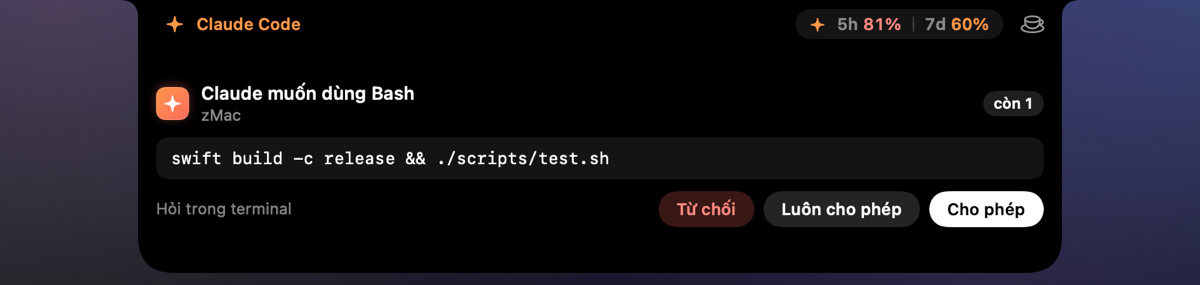
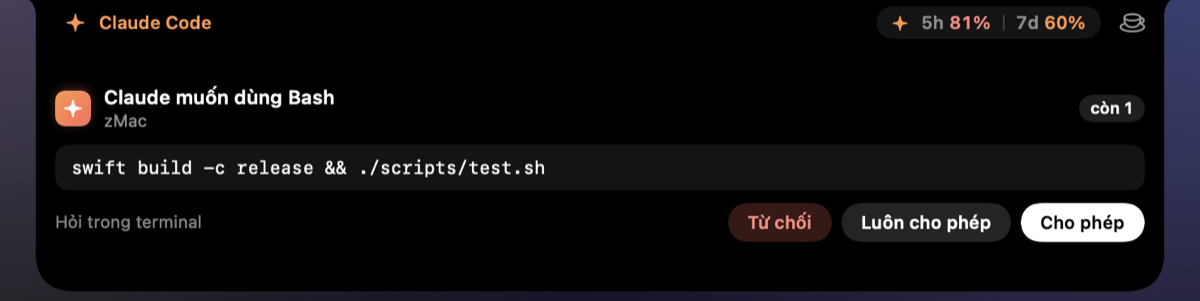
README: Homebrew, lịch, âm lượng, pin yếu, ảnh chụp mới

Changed region(s): [[0.0, 0.0, 0.9867, 0.9825]]

diff --git a/README.md b/README.md
@@ -13,7 +13,7 @@ Nhẹ, miễn phí, mã nguồn mở.
 ![macOS 14+](https://img.shields.io/badge/macOS-14%2B-282b59?logo=apple)
 ![Apple Silicon](https://img.shields.io/badge/Apple%20Silicon-arm64-282b59)
 ![Swift](https://img.shields.io/badge/Swift-5.10-F05138?logo=swift&logoColor=white)
-![Bộ nhớ 17 MB](https://img.shields.io/badge/b%E1%BB%99%20nh%E1%BB%9B-17%20MB-2DC480)
+![Bộ nhớ 24 MB](https://img.shields.io/badge/b%E1%BB%99%20nh%E1%BB%9B-24%20MB-2DC480)
 ![MIT](https://img.shields.io/badge/gi%E1%BA%A5y%20ph%C3%A9p-MIT-E171E0)
 
 <img src="docs/images/hero.jpg" width="880" alt="Notch đang phát nhạc, hạn mức Claude và HUD chuyển cửa sổ ⌥⇥ của zMac">
@@ -21,8 +21,8 @@ Nhẹ, miễn phí, mã nguồn mở.
 </div>
 
 > **English:** zMac is a lightweight macOS menu bar app that replaces AltTab, Rectangle, Maccy, BetterDisplay, AlDente,
-> FineTune and NotchNook with a single 17 MB process. It also approves Claude Code permission requests right from the
-> notch. Free and open source (MIT), with a Vietnamese and English interface.
+> FineTune and NotchNook with a single 24 MB process. Its notch also shows lyrics, your calendar, volume and brightness,
+> and approves Claude Code permission requests. Free and open source (MIT), with a Vietnamese and English interface.
 
 ## Có gì bên trong
 
@@ -34,8 +34,9 @@ Nhẹ, miễn phí, mã nguồn mở.
 | 🖥 | **Màn hình** | BetterDisplay | Độ sáng màn ngoài (DDC hoặc làm tối bằng phần mềm), độ phân giải, HiDPI |
 | 🔋 | **Pin** | AlDente | Giới hạn sạc, sailing, chống nóng, xả về ngưỡng, sạc đầy một lần |
 | 🔊 | **Âm thanh** | FineTune | Âm lượng và loa riêng từng app, đổi thiết bị vào ra |
-| 🎵 | **Notch** | NotchNook | Nhạc đang phát với ảnh bìa (mọi trình phát, kể cả trình duyệt), lời bài hát, kệ file, báo pin khi cắm sạc |
-| ✳ | **Claude Code** | Roost | Claude xin quyền thì notch mở ra để Cho phép / Từ chối; hạn mức 5 giờ / 7 ngày ngay trên notch |
+| 🎵 | **Notch** | NotchNook | Nhạc đang phát với ảnh bìa (mọi trình phát, kể cả trình duyệt), lời bài hát, kệ file; âm lượng và độ sáng thay HUD macOS; báo pin khi cắm sạc, cảnh báo pin yếu |
+| 📅 | **Lịch** | Itsycal | Tuần này ngay trong notch, chấm ngày có sự kiện, cuộc họp sắp tới kèm nút vào Meet / Zoom / Teams |
+| ✳ | **Claude Code** | Roost | Claude xin quyền thì notch mở ra để Cho phép / Từ chối; Claude hỏi lại hay xin duyệt kế hoạch thì chọn ngay trên notch; hạn mức 5 giờ / 7 ngày |
 | 🐾 | **Thú cưng** | | Mèo, cún, slime hay gà con pixel sống ở notch: cho ăn, vuốt ve, chơi để lên cấp |
 | ☕ | **Giữ máy thức** | Amphetamine | Không cho máy ngủ trong khoảng thời gian bạn chọn |
 
@@ -45,7 +46,10 @@ Tính năng nào không dùng thì tắt: module tắt không được tạo ra 
 
 <p align="center"><img src="docs/images/notch-collapsed.png" width="560" alt="Notch thu gọn: ảnh bìa và sóng nhạc bên trái, thú cưng bên phải"></p>
 
-Lúc thu gọn, notch hiện bài đang phát ở bên trái và thú cưng ở bên phải. Rê chuột (hoặc bấm) để mở:
+Lúc thu gọn, notch hiện bài đang phát ở bên trái và thú cưng ở bên phải. Rê chuột (hoặc bấm) để mở: bên trái là
+nhạc, kệ file hoặc thú cưng, bên phải là lịch tuần này.
+
+<p align="center"><img src="docs/images/notch-open.png" width="760" alt="Notch mở: trình phát bên trái, lịch tuần này bên phải"></p>
 
 <table>
 <tr>
@@ -56,8 +60,8 @@ Trả lời trong terminal cũng được, thẻ tự biến mất. Bấm Kết 
 </td>
 <td width="50%" valign="top">
 <img src="docs/images/notch-lyrics.png" alt="Lời bài hát chạy theo nhạc trên notch"><br>
-<b>Lời bài hát.</b> Lời có mốc thời gian chạy theo nhạc, dòng đang hát sáng lên. Lấy từ
-<a href="https://lrclib.net">lrclib.net</a>, chỉ khi bạn mở tab Lời.
+<b>Lời bài hát.</b> Bấm nút Lời trong trình phát, lời thay chỗ ảnh bìa và chạy theo nhạc, dòng đang hát sáng lên.
+Lấy từ <a href="https://lrclib.net">lrclib.net</a>, chỉ khi đang xem lời.
 </td>
 </tr>
 <tr>
@@ -72,17 +76,29 @@ Hoạt hình chạy bằng Core Animation nên không tốn CPU.
 Ghim những gì hay dùng; mật khẩu từ trình quản lý mật khẩu không bao giờ được lưu.
 </td>
 </tr>
+<tr>
+<td width="50%" valign="top">
+<img src="docs/images/notch-volume.png" alt="Âm lượng hiện trên hai cánh notch"><br>
+<b>Âm lượng, độ sáng.</b> Phím âm lượng và độ sáng hiện mức trên hai cánh notch thay cho HUD của macOS.
+Phím độ sáng chỉnh màn đang có con trỏ, kể cả màn ngoài và TV (làm tối bằng phần mềm).
+</td>
+<td width="50%" valign="top">
+<img src="docs/images/notch-lowbattery.png" alt="Thẻ cảnh báo pin yếu thả xuống từ notch"><br>
+<b>Pin yếu.</b> Còn 20%, 10% và 5% thì notch thả xuống một thẻ nhắc; cắm sạc là thẻ tự đóng.
+Mốc đầu tiên chọn được trong Cài đặt.
+</td>
+</tr>
 </table>
 
 <p align="center"><img src="docs/images/settings.jpg" width="760" alt="Cửa sổ Cài đặt của zMac"></p>
 
 ## Nhẹ đến đâu
 
-Đo trên MacBook Air M4, macOS 26.5, bật cả 10 tính năng:
+Đo trên MacBook Air M4, macOS 26.5, bật cả 11 tính năng:
 
 | | zMac |
 |---|---|
-| Bộ nhớ (phys footprint) | **17 MB** |
+| Bộ nhớ (phys footprint) | **24 MB** |
 | CPU khi rảnh, kể cả lúc notch đang chạy hoạt hình | **0%** |
 | Kích thước app | 3 MB (app, daemon pin, hook Claude, adapter đọc nhạc) |
 | Tiến trình đọc nhạc đang phát (chỉ khi bật Notch) | khoảng 6 MB, 0% CPU |
@@ -94,13 +110,22 @@ AltTab giữ sẵn ảnh chụp cửa sổ, Maccy giữ lịch sử của bạn.
 **Vì sao nhẹ** (chi tiết ở [docs/ARCHITECTURE.md](docs/ARCHITECTURE.md)):
 
 - Một tiến trình thay cho bảy, dùng chung runtime Swift, AppKit, SwiftUI.
-- Chạy theo sự kiện của hệ thống (IOKit, CoreAudio, NSWorkspace, kqueue), không timer lặp, không `CGEventTap`.
-  Phím tắt đăng ký với hệ thống nên phím bạn gõ không đi qua zMac.
+- Chạy theo sự kiện của hệ thống (IOKit, CoreAudio, NSWorkspace, EventKit, kqueue), không timer lặp.
+  Phím tắt đăng ký với hệ thống nên phím bạn gõ không đi qua zMac. Ngoại lệ duy nhất là một event tap chỉ nhận
+  phím âm lượng và độ sáng, để hiện chúng trên notch.
 - Module tắt thì không tồn tại; module không hợp máy tự ẩn (Mac không pin thì không có khoá sạc).
 - Hoạt hình trên notch giao cho Core Animation, WindowServer tự chạy, app không vẽ lại từng khung hình.
 - Cửa sổ, bảng, popover huỷ view khi đóng. Build riêng cho chip của máy, strip ký hiệu.
 
 ## Cài đặt
+
+Bằng Homebrew, một lệnh là xong và mở được ngay (không cần bước 2 bên dưới):
+
+```sh
+brew install --cask kienhungpg/tap/zmac
+```
+
+Cập nhật sau này bằng `brew upgrade --cask zmac`. Hoặc cài tay:
 
 1. Tải `zMac.dmg` ở [trang web](https://zmac-website.vercel.app/#install), kéo zMac vào Applications.
 2. zMac chưa được Apple công chứng (notarize), nên lần đầu mở macOS sẽ chặn. Vào **Cài đặt hệ thống → Quyền riêng tư &
@@ -108,6 +133,7 @@ AltTab giữ sẵn ảnh chụp cửa sổ, Maccy giữ lịch sử của bạn.
 3. Cấp quyền **Trợ năng** khi zMac hỏi.
 
 Cần macOS 14 trở lên. Bản DMG build cho Apple Silicon; máy Intel tự build bằng `ZMAC_UNIVERSAL=1 ./build.sh`.
+Có gì mới ở từng bản: [CHANGELOG.md](CHANGELOG.md).
 
 ## Quyền riêng tư
 
@@ -115,14 +141,16 @@ Cần macOS 14 trở lên. Bản DMG build cho Apple Silicon; máy Intel tự bu
 
 | Tính năng | Gọi tới | Khi nào |
 |---|---|---|
-| Lời bài hát (Cài đặt → Notch) | `lrclib.net` | Khi bạn mở tab Lời. Chỉ gửi tên bài, ca sĩ, album, độ dài |
+| Lời bài hát (nút Lời trong notch) | `lrclib.net` | Khi đang xem lời. Chỉ gửi tên bài, ca sĩ, album, độ dài |
 | Tự cập nhật (Cài đặt → Chung) | `api.github.com`, `github.com` | Lúc mở app và khi máy thức dậy, tối đa mỗi ngày một lần. Chỉ cài bản có chữ ký Ed25519 đúng |
 
 Hạn mức Claude được đọc từ file Claude Code tự lưu trên máy (`~/.claude.json`), không gọi mạng, không đọc Keychain.
+Lịch đọc từ app Lịch của macOS qua EventKit, chỉ đọc, không gửi đi đâu.
 
 | Quyền | Dùng cho | Bắt buộc |
 |---|---|---|
-| Trợ năng | Chuyển và chia cửa sổ, dán từ clipboard, nút phát nhạc | Có, cho các tính năng đó |
+| Trợ năng | Chuyển và chia cửa sổ, dán từ clipboard, nút phát nhạc, phím âm lượng và độ sáng trên notch | Có, cho các tính năng đó |
+| Lịch | Tuần này và cuộc họp sắp tới trong notch (chỉ đọc) | Chỉ khi bạn bấm Cho phép |
 | Ghi âm thanh hệ thống | Âm lượng từng app (macOS hỏi lần đầu bạn chỉnh) | Chỉ khi dùng |
 | Ghi màn hình | Ảnh xem trước trong `⌥⇥` | Không |
 | Mật khẩu admin, một lần | Cài daemon giới hạn sạc | Chỉ khi dùng giới hạn sạc |
@@ -185,9 +213,13 @@ sudo rm -f /Library/PrivilegedHelperTools/com.zmac.helper /Library/LaunchDaemons
 
 1. Một lần: `swift scripts/update-sign.swift genkey` tạo khoá bí mật ở `~/.zmac/update-key` (sao lưu nó, không commit)
    và ghi khoá công khai vào `Resources/update-public-key.txt` (commit file này; `build.sh` gắn nó vào app).
-2. Tăng `CFBundleShortVersionString` / `CFBundleVersion` trong `Resources/Info.plist`.
-3. `./scripts/make-release.sh`: build, DMG cho trang web, `build/release/zMac-X.Y.Z.zip` và chữ ký `.zip.sig`,
-   rồi in lệnh `gh release create` để bạn tự chạy.
+2. Tăng `CFBundleShortVersionString` / `CFBundleVersion` trong `Resources/Info.plist`, thêm mục mới vào `CHANGELOG.md`
+   và `website/changelog.json` (trang web đọc file này cho mục Phiên bản).
+3. `./scripts/make-release.sh`: build, DMG cho trang web, cask Homebrew `packaging/homebrew/zmac.rb`,
+   `build/release/zMac-X.Y.Z.zip` và chữ ký `.zip.sig` (khi đã có khoá), ghi chú lấy từ CHANGELOG, rồi in lệnh
+   `gh release create` để bạn tự chạy.
+4. Chép `packaging/homebrew/zmac.rb` sang repo [KienHungPG/homebrew-tap](https://github.com/KienHungPG/homebrew-tap)
+   (`Casks/zmac.rb`) và push. Cask tải `zMac.dmg` từ GitHub Release `vX.Y.Z`, nên release phải có đúng file DMG đó.
 
 App chỉ nhận bản cập nhật ký bằng đúng khoá đó. Mất khoá bí mật thì bản đã cài không tự cập nhật được nữa
 (người dùng phải tải lại bản mới từ trang web).
